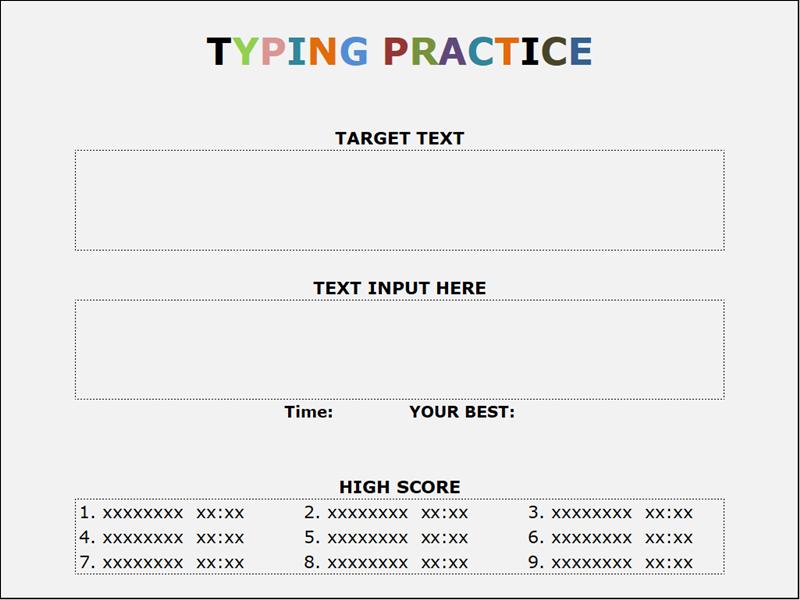
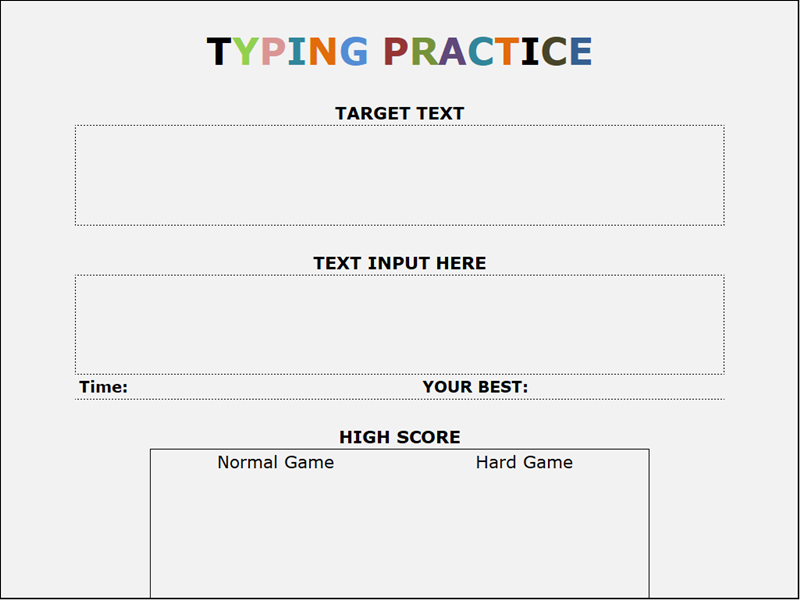
Add files via upload
almost full functional, version 0.99

diff --git a/typing_practice.py b/typing_practice.py
@@ -50,21 +50,21 @@ class Game(object):
             else:
                 print('wrong game level')
 
+    def refresh_highscore(self, normal_highscore_label, hard_highscore_label):
+        _data = self.show_highscore()
+        for _ in range(5):
+            normal_highscore_label[_].element.text = _data[_][1] + ' ' * (10 - len(_data[_][1])) + str(_data[_][0] // 60) + ':' + str(_data[_][0] % 60) 
+        for _ in range(5):
+            hard_highscore_label[_].element.text = _data[5 + _][1] + ' ' * (10 - len(_data[5 + _][1])) + str(_data[5 + _][0] // 60) + ':' + str(_data[5 + _][0] % 60) 
+
     def show_highscore(self):
 
-        print(Game.highscore_file)
         with open(Game.highscore_file) as _file:
             try:
                 _data = json.load(_file)
             except:
                 print('open file failed')
-
-            data_normal = sorted(_data[0:5])
-            data_hard = sorted(_data[5:])
-            
-            print('showing the record')
-            print(data_normal)
-            print(data_hard)
+            return _data
 
     def write_highscore(self, name, highscore):
         with open(Game.highscore_file) as _file:
@@ -83,7 +83,7 @@ class Game(object):
             else:
                 print('wrong game level')
 
-            _ = _ + [[highscore, name]]
+            _ = _ + [[highscore, name[:10]]]
             print(' _ before sorted', _)
             _ = sorted(_)
             print(' _ after sorted', _)
@@ -123,7 +123,31 @@ class Menu(cocos.layer.Layer):
         
         self.image = pyglet.resource.image('menu.png')
         print('menu initialised')
-        Game.show_highscore(self)
+
+        _data = self.game.show_highscore()
+        print('_data = ', _data)
+        self.normal_highscore_label = []
+        self.hard_highscore_label = []
+
+        for _ in range(5):
+            print('normal', _)
+            self.normal_highscore_label.append(cocos.text.Label(_data[_][1] + ' ' * (10 - len(_data[_][1])) + str(_data[_][0] // 60) + ':' + str(_data[_][0] % 60), 
+               font_size = 16, 
+               font_name = 'Verdana', 
+               bold = False, 
+               color = Game.default_color, 
+               x = 220, y = 110 - (_ * 25)))
+            self.add(self.normal_highscore_label[_])
+
+        for _ in range(5):
+            print('hard', _)
+            self.hard_highscore_label.append(cocos.text.Label(_data[5 + _][1] + ' ' * (10 - len(_data[5 + _][1])) + str(_data[5 + _][0] // 60) + ':' + str(_data[5 + _][0] % 60), 
+               font_size = 16, 
+               font_name = 'Verdana', 
+               bold = False, 
+               color = Game.default_color, 
+               x = 450, y = 110 - (_ * 25)))
+            self.add(self.hard_highscore_label[_])
 
         self.level_label = cocos.text.Label(self.game.level,
             font_size = 26,
@@ -133,7 +157,6 @@ class Menu(cocos.layer.Layer):
             x = 455, y = 240)
 
         self.add(self.level_label)
-
 
 
     def draw(self):
@@ -183,7 +206,7 @@ class Menu(cocos.layer.Layer):
             self.StartTimer = 0
             if self.game.status == 'menu':
                 self.visible = True
-
+                self.game.refresh_highscore(self.normal_highscore_label, self.hard_highscore_label)
         
 
 class Main_screen(cocos.layer.Layer):
@@ -196,18 +219,17 @@ class Main_screen(cocos.layer.Layer):
 
         super(Main_screen, self).__init__()
 
-        
+        self.game = game
         self.default_color = (0, 0, 0, 255)
         self.image = pyglet.resource.image('main_screen.png')
         print('main screen initialised')
-        Game.show_highscore(self)
-
+        
         self.Time_Label = cocos.text.Label('00:00',
             font_size = 16,
             font_name = 'Verdana', 
             bold = False, 
             color = self.default_color, 
-            x = 345, y = 175)
+            x = 165, y = 205)
         self.add(self.Time_Label)
 
         self.BestTime_Label = cocos.text.Label('99:59',
@@ -215,7 +237,7 @@ class Main_screen(cocos.layer.Layer):
             font_name = 'Verdana', 
             bold = False, 
             color = self.default_color, 
-            x = 585, y = 173)
+            x = 555, y = 205)
         self.add(self.BestTime_Label)
 
         self.prac_label = cocos.text.Label('GET READY 3',
@@ -223,7 +245,7 @@ class Main_screen(cocos.layer.Layer):
             font_name = 'Verdana', 
             bold = False, 
             color = self.default_color, 
-            x = 155, y = 375)
+            x = 155, y = 395)
         self.add(self.prac_label)
 
         self.input_label = cocos.text.Label('',
@@ -231,8 +253,34 @@ class Main_screen(cocos.layer.Layer):
             font_name = 'Verdana', 
             bold = False, 
             color = self.default_color, 
-            x = 135, y = 240)
+            x = 135, y = 260)
         self.add(self.input_label)
+
+        _data = self.game.show_highscore()
+        print('_data = ', _data)
+        self.normal_highscore_label = []
+        self.hard_highscore_label = []
+
+        for _ in range(5):
+            print('normal', _)
+            self.normal_highscore_label.append(cocos.text.Label(_data[_][1] + ' ' * (10 - len(_data[_][1])) + str(_data[_][0] // 60) + ':' + str(_data[_][0] % 60), 
+               font_size = 16, 
+               font_name = 'Verdana', 
+               bold = False, 
+               color = Game.default_color, 
+               x = 220, y = 110 - (_ * 25)))
+            self.add(self.normal_highscore_label[_])
+
+        for _ in range(5):
+            print('hard', _)
+            self.hard_highscore_label.append(cocos.text.Label(_data[5 + _][1] + ' ' * (10 - len(_data[5 + _][1])) + str(_data[5 + _][0] // 60) + ':' + str(_data[5 + _][0] % 60), 
+               font_size = 16, 
+               font_name = 'Verdana', 
+               bold = False, 
+               color = Game.default_color, 
+               x = 450, y = 110 - (_ * 25)))
+            self.add(self.hard_highscore_label[_])
+
 
         self.game_init()
 
@@ -325,6 +373,7 @@ class Main_screen(cocos.layer.Layer):
                 self.start_timer = 0
                 self.Time_Label.element.text = str(int(self.time_passed // 60)) + ' : ' + str(int(self.time_passed % 60)) 
                 self.visible = True
+                self.game.refresh_highscore(self.normal_highscore_label, self.hard_highscore_label)
 
                 # count down SFX    
                 if int(self.time_passed) <4 and self.game_started == False:
@@ -353,20 +402,6 @@ class Main_screen(cocos.layer.Layer):
 
                         self.prac_label.element.text = _str 
                         self.game_started = True
-
-
-class High_score(Game):
-
-
-    def get_input(self, name, score):
-        pass
-
-    def show_score(self):
-        pass
-
-    def write_score(self, name, score):
-        pass
-
 
 
 if __name__ == '__main__':
